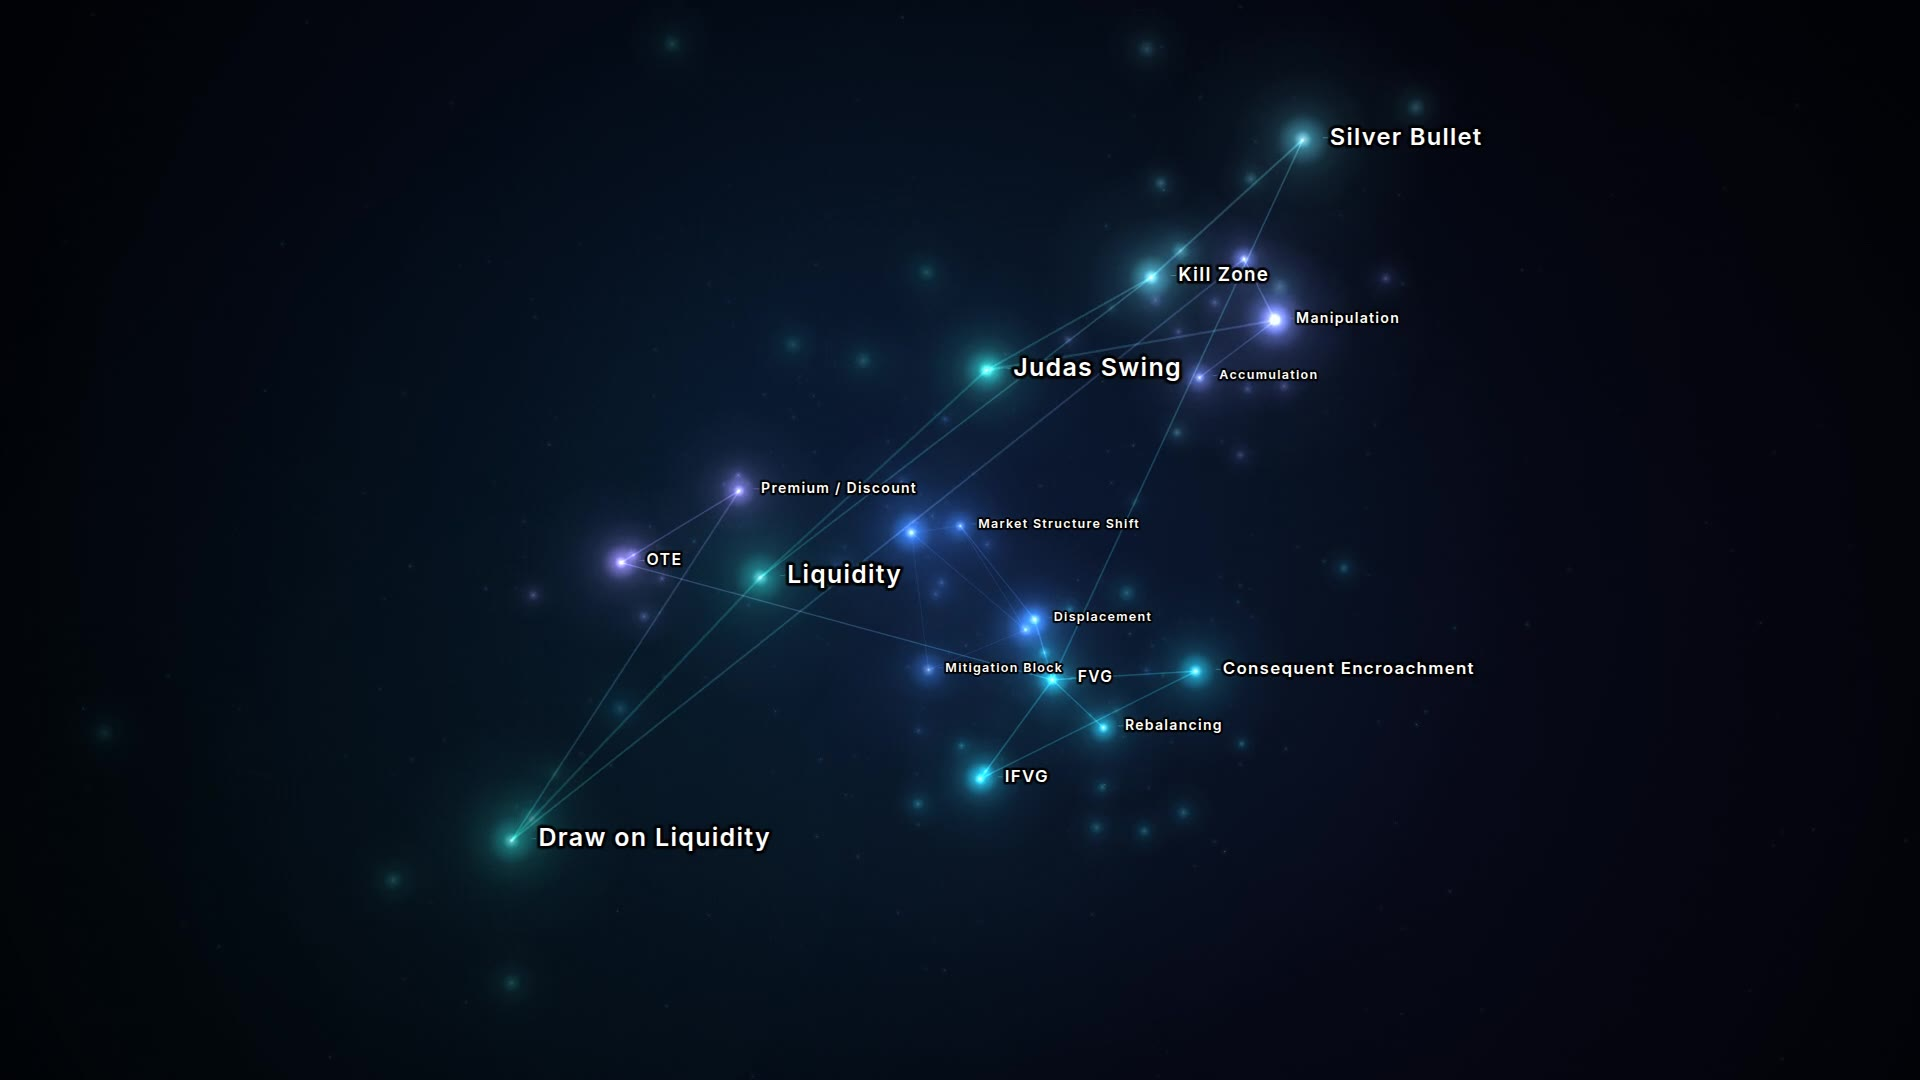
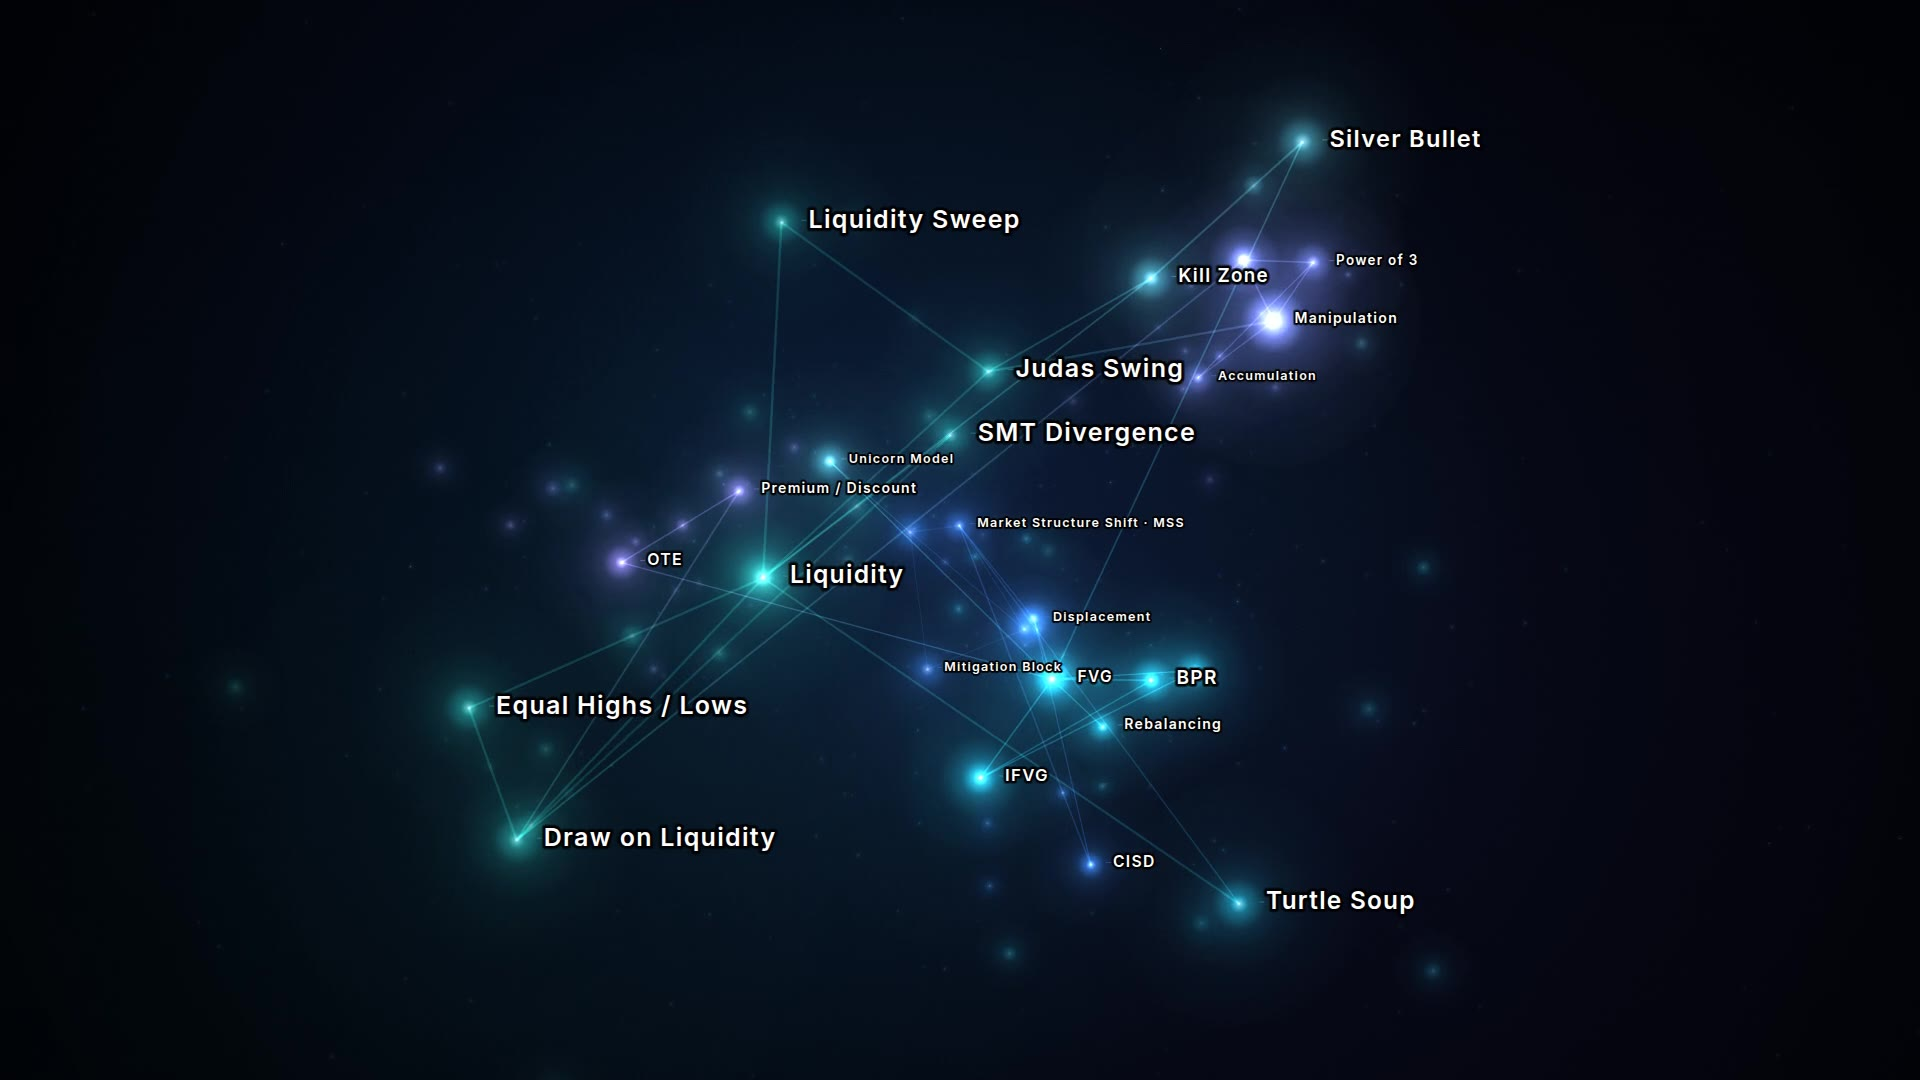
Add 8 ICT concepts to the graph; label MSS acronym
Expands the knowledge-graph film from 19 to 27 nodes: CISD, Unicorn Model,
SMT Divergence, Liquidity Sweep, Turtle Soup, Power of 3, BPR, and Equal
Highs/Lows, each wired to its natural relationships (Unicorn↔Breaker+FVG,
CISD↔MSS+Displacement, Power of 3↔Accumulation/Manipulation/Distribution,
SMT↔Liquidity, etc.). Relabels the existing Market Structure Shift node to
'Market Structure Shift · MSS'. Tightens the ignition stagger so all 27
still light up before the network goes alive. Poster refreshed.

Claude-Session: https://claude.ai/code/session_01D4b59pq9wWdHZncFjxwX3y

diff --git a/assets/video/knowledge-graph/index.html b/assets/video/knowledge-graph/index.html
@@ -67,25 +67,34 @@ const mix3 = (a,b,u)=>[lerp(a[0],b[0],u),lerp(a[1],b[1],u),lerp(a[2],b[2],u)];
 /* ---------- concept nodes ---------- */
 /* order = ignition order (narrative build) */
 const CONCEPTS = [
-  ['FVG',                    [  40,-140, -80], 'cyan'  ],
-  ['IFVG',                   [ 150,-210, -10], 'cyan'  ],
-  ['Liquidity',              [ 430,  30, 120], 'teal'  ],
-  ['Displacement',           [-240,-130, -60], 'blue'  ],
-  ['Market Structure Shift', [-400, -10,  60], 'blue'  ],
-  ['Order Block',            [-460,-190, -40], 'blue'  ],
-  ['Breaker',                [-580, -40, 160], 'blue'  ],
-  ['Mitigation Block',       [-520,-280, 120], 'blue'  ],
-  ['Premium / Discount',     [ -60,  60, 300], 'violet'],
-  ['OTE',                    [  90,  -10, 380], 'violet'],
-  ['Judas Swing',            [ 480, 170, -40], 'teal'  ],
-  ['Kill Zone',              [ 180, 270,-170], 'ice'   ],
-  ['Silver Bullet',          [ 330, 340,-250], 'ice'   ],
-  ['Draw on Liquidity',      [ 600, -80, 220], 'teal'  ],
-  ['Rebalancing',            [ -60,-230,-140], 'cyan'  ],
-  ['Consequent Encroachment',[ 120,-100,-220], 'cyan'  ],
-  ['Accumulation',           [-260, 200,-280], 'indigo'],
-  ['Manipulation',           [-140, 260,-350], 'indigo'],
-  ['Distribution',           [ -20, 320,-280], 'indigo'],
+  ['FVG',                     [  40,-140, -80], 'cyan'  ],
+  ['IFVG',                    [ 150,-210, -10], 'cyan'  ],
+  ['Liquidity',               [ 430,  30, 120], 'teal'  ],
+  ['Displacement',            [-240,-130, -60], 'blue'  ],
+  ['Market Structure Shift · MSS', [-400, -10, 60], 'blue' ],
+  ['Order Block',             [-460,-190, -40], 'blue'  ],
+  ['Breaker',                 [-580, -40, 160], 'blue'  ],
+  ['Mitigation Block',        [-520,-280, 120], 'blue'  ],
+  ['Premium / Discount',      [ -60,  60, 300], 'violet'],
+  ['OTE',                     [  90,  -10, 380], 'violet'],
+  ['Judas Swing',             [ 480, 170, -40], 'teal'  ],
+  ['Kill Zone',               [ 180, 270,-170], 'ice'   ],
+  ['Silver Bullet',           [ 330, 340,-250], 'ice'   ],
+  ['Draw on Liquidity',       [ 600, -80, 220], 'teal'  ],
+  ['Rebalancing',             [ -60,-230,-140], 'cyan'  ],
+  ['Consequent Encroachment', [ 120,-100,-220], 'cyan'  ],
+  ['Accumulation',            [-260, 200,-280], 'indigo'],
+  ['Manipulation',            [-140, 260,-350], 'indigo'],
+  ['Distribution',            [ -20, 320,-280], 'indigo'],
+  /* ── round 2 additions ── */
+  ['CISD',                    [  80,-330,-120], 'blue'  ],
+  ['Unicorn Model',           [-330,  90, 250], 'ice'   ],
+  ['SMT Divergence',          [ 630, 130, -30], 'teal'  ],
+  ['Liquidity Sweep',         [ 560, 250,  70], 'teal'  ],
+  ['Turtle Soup',             [ 420,-190,-210], 'cyan'  ],
+  ['Power of 3',              [-210, 350,-410], 'indigo'],
+  ['BPR',                     [ 235, -90,-160], 'cyan'  ],
+  ['Equal Highs / Lows',      [ 505, -40, 300], 'teal'  ],
 ];
 
 const EDGES = [ /* [a, b, key] — key edges pulse visibly */
@@ -94,9 +103,9 @@ const EDGES = [ /* [a, b, key] — key edges pulse visibly */
   ['FVG','Rebalancing',0],
   ['FVG','Consequent Encroachment',0],
   ['IFVG','Consequent Encroachment',0],
-  ['Displacement','Market Structure Shift',1],
-  ['Market Structure Shift','Order Block',0],
-  ['Market Structure Shift','Breaker',0],
+  ['Displacement','Market Structure Shift · MSS',1],
+  ['Market Structure Shift · MSS','Order Block',0],
+  ['Market Structure Shift · MSS','Breaker',0],
   ['Order Block','Breaker',1],
   ['Order Block','Mitigation Block',0],
   ['Breaker','Mitigation Block',0],
@@ -113,6 +122,24 @@ const EDGES = [ /* [a, b, key] — key edges pulse visibly */
   ['Accumulation','Manipulation',1],
   ['Manipulation','Distribution',1],
   ['Distribution','Draw on Liquidity',0],
+  /* ── round 2 relationships ── */
+  ['CISD','Market Structure Shift · MSS',1],
+  ['CISD','Displacement',0],
+  ['Unicorn Model','Breaker',1],
+  ['Unicorn Model','FVG',1],
+  ['SMT Divergence','Liquidity',1],
+  ['SMT Divergence','Draw on Liquidity',0],
+  ['Liquidity Sweep','Liquidity',1],
+  ['Liquidity Sweep','Judas Swing',0],
+  ['Turtle Soup','Liquidity',0],
+  ['Turtle Soup','Market Structure Shift · MSS',0],
+  ['Power of 3','Accumulation',1],
+  ['Power of 3','Manipulation',1],
+  ['Power of 3','Distribution',1],
+  ['BPR','FVG',1],
+  ['BPR','IFVG',0],
+  ['Equal Highs / Lows','Liquidity',1],
+  ['Equal Highs / Lows','Draw on Liquidity',0],
 ];
 
 /* ---------- scene assembly ---------- */
@@ -128,7 +155,7 @@ let pool    = [];        // full morph particle pool
 CONCEPTS.forEach((c,i)=>{
   nodes.push({
     name:c[0], base:c[1], col:PAL[c[2]],
-    tIgn: T_BUILD + i*0.515 + rng()*0.12,
+    tIgn: T_BUILD + i*0.36 + rng()*0.12,   /* tightened stagger fits 27 nodes before T_ALIVE */
     ph: rng()*Math.PI*2,
     r: 6.2 + rng()*1.6,
   });

diff --git a/assets/video/knowledge-graph/README.md b/assets/video/knowledge-graph/README.md
@@ -1,9 +1,19 @@
 # PlugICT — Knowledge Graph Brand Film
 
-A 26-second, 1080p30 cinematic animation that presents PlugICT's ICT concept
-vault as a glowing, living knowledge graph, ending on the golden *plug* **ICT**
-lockup and the "Search the ICT vault" tagline. Final output:
+A 1080p30 cinematic animation that presents PlugICT's ICT concept vault as a
+glowing, living knowledge graph of 27 concepts, ending on the golden *plug*
+**ICT** lockup and the "Search the ICT vault" tagline. Final output:
 `assets/video/plugict-knowledge-graph.mp4`.
+
+The renderer produces a 26s master; the shipped video is encoded with
+`HEAD=1.5` (see `encode.sh`), trimming the first 1.5s of intro darkness so the
+network appears sooner — final length **24.5s**.
+
+Concepts shown: FVG, IFVG, Liquidity, Displacement, Market Structure Shift · MSS,
+Order Block, Breaker, Mitigation Block, Premium/Discount, OTE, Judas Swing,
+Kill Zone, Silver Bullet, Draw on Liquidity, Rebalancing, Consequent
+Encroachment, Accumulation, Manipulation, Distribution, CISD, Unicorn Model,
+SMT Divergence, Liquidity Sweep, Turtle Soup, Power of 3, BPR, Equal Highs/Lows.
 
 ## Narrative timeline
 